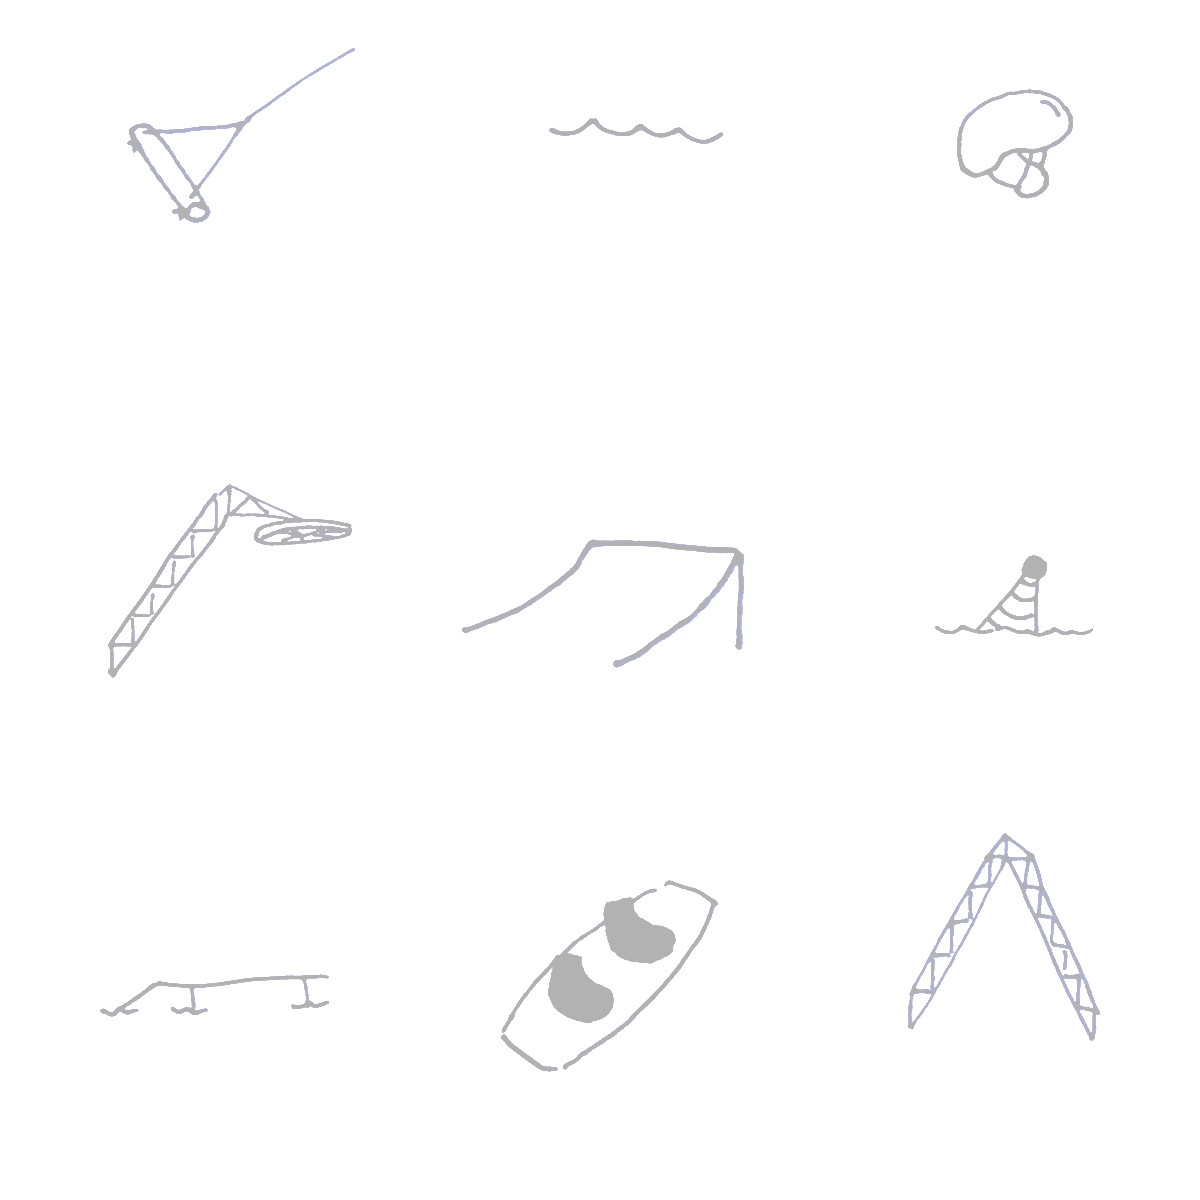
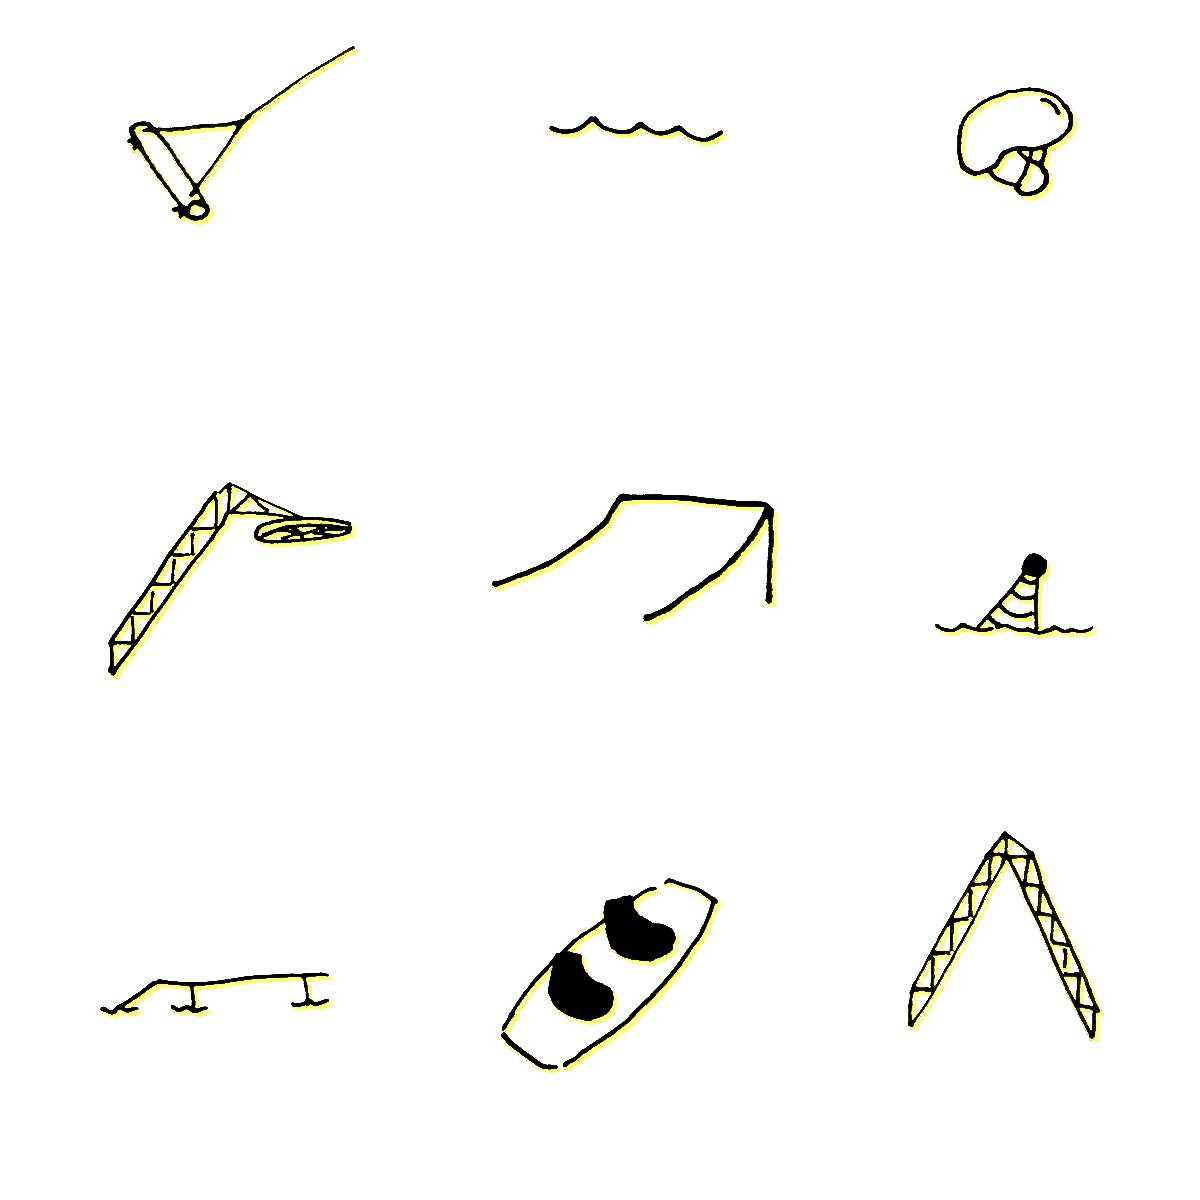
Create first style

diff --git a/html/css/style.css b/html/css/style.css
@@ -1,1 +1,1 @@
-/*! normalize.css v3.0.3 | MIT License | github.com/necolas/normalize.css */html{font-family:sans-serif;-ms-text-size-adjust:100%;-webkit-text-size-adjust:100%}body{margin:0}article,aside,details,figcaption,figure,footer,header,hgroup,main,menu,nav,section,summary{display:block}audio,canvas,progress,video{display:inline-block;vertical-align:baseline}audio:not([controls]){display:none;height:0}[hidden],template{display:none}a{background-color:transparent}a:active,a:hover{outline:0}abbr[title]{border-bottom:1px dotted}b,strong{font-weight:bold}dfn{font-style:italic}h1{font-size:2em;margin:0.67em 0}mark{background:#ff0;color:#000}small{font-size:80%}sub,sup{font-size:75%;line-height:0;position:relative;vertical-align:baseline}sup{top:-0.5em}sub{bottom:-0.25em}img{border:0}svg:not(:root){overflow:hidden}figure{margin:1em 40px}hr{box-sizing:content-box;height:0}pre{overflow:auto}code,kbd,pre,samp{font-family:monospace, monospace;font-size:1em}button,input,optgroup,select,textarea{color:inherit;font:inherit;margin:0}button{overflow:visible}button,select{text-transform:none}button,html input[type="button"],input[type="reset"],input[type="submit"]{-webkit-appearance:button;cursor:pointer}button[disabled],html input[disabled]{cursor:default}button::-moz-focus-inner,input::-moz-focus-inner{border:0;padding:0}input{line-height:normal}input[type="checkbox"],input[type="radio"]{box-sizing:border-box;padding:0}input[type="number"]::-webkit-inner-spin-button,input[type="number"]::-webkit-outer-spin-button{height:auto}input[type="search"]{-webkit-appearance:textfield;box-sizing:content-box}input[type="search"]::-webkit-search-cancel-button,input[type="search"]::-webkit-search-decoration{-webkit-appearance:none}fieldset{border:1px solid #c0c0c0;margin:0 2px;padding:0.35em 0.625em 0.75em}legend{border:0;padding:0}textarea{overflow:auto}optgroup{font-weight:bold}table{border-collapse:collapse;border-spacing:0}td,th{padding:0}body{background:#fff;background-image:url("/media/background.png");background-repeat:repeat;background-size:400px;color:#222;font-family:"malzoo";font-size:24px;font-weight:bold;overflow:scroll}@media screen and (max-width: 480px){body{font-size:20px;background-size:250px}body img{width:120px;height:120px}}a{color:inherit;outline:0;text-decoration:none;transition:.15s;font-weight:normal;font-size:16px}#container{display:flex;flex-direction:column}#map{margin-right:10px}.park{display:flex;flex-direction:row;margin:10px}.info{margin-left:10px}
+/*! normalize.css v3.0.3 | MIT License | github.com/necolas/normalize.css */html{font-family:sans-serif;-ms-text-size-adjust:100%;-webkit-text-size-adjust:100%}body{margin:0}article,aside,details,figcaption,figure,footer,header,hgroup,main,menu,nav,section,summary{display:block}audio,canvas,progress,video{display:inline-block;vertical-align:baseline}audio:not([controls]){display:none;height:0}[hidden],template{display:none}a{background-color:transparent}a:active,a:hover{outline:0}abbr[title]{border-bottom:1px dotted}b,strong{font-weight:bold}dfn{font-style:italic}h1{font-size:2em;margin:0.67em 0}mark{background:#ff0;color:#000}small{font-size:80%}sub,sup{font-size:75%;line-height:0;position:relative;vertical-align:baseline}sup{top:-0.5em}sub{bottom:-0.25em}img{border:0}svg:not(:root){overflow:hidden}figure{margin:1em 40px}hr{box-sizing:content-box;height:0}pre{overflow:auto}code,kbd,pre,samp{font-family:monospace, monospace;font-size:1em}button,input,optgroup,select,textarea{color:inherit;font:inherit;margin:0}button{overflow:visible}button,select{text-transform:none}button,html input[type="button"],input[type="reset"],input[type="submit"]{-webkit-appearance:button;cursor:pointer}button[disabled],html input[disabled]{cursor:default}button::-moz-focus-inner,input::-moz-focus-inner{border:0;padding:0}input{line-height:normal}input[type="checkbox"],input[type="radio"]{box-sizing:border-box;padding:0}input[type="number"]::-webkit-inner-spin-button,input[type="number"]::-webkit-outer-spin-button{height:auto}input[type="search"]{-webkit-appearance:textfield;box-sizing:content-box}input[type="search"]::-webkit-search-cancel-button,input[type="search"]::-webkit-search-decoration{-webkit-appearance:none}fieldset{border:1px solid #c0c0c0;margin:0 2px;padding:0.35em 0.625em 0.75em}legend{border:0;padding:0}textarea{overflow:auto}optgroup{font-weight:bold}table{border-collapse:collapse;border-spacing:0}td,th{padding:0}body{background:#a1fdff;background-image:url("/media/background.png");background-repeat:repeat;background-size:400px;color:#000;text-shadow:4px 4px #fff;font-family:"malzoo";font-size:48px;font-weight:bold;overflow:scroll}@media screen and (max-width: 480px){body{font-size:24px;background-size:250px}body img{width:120px;height:120px}body a{font-size:18px}}a{background:#ff0;color:inherit;outline:0;text-decoration:none;transition:.15s;font-weight:normal;font-size:32px;padding:10px;opacity:0.8}#container{display:flex;flex-direction:column}#map{margin-right:10px}.park{display:flex;flex-direction:row;margin:10px}.info{margin-left:10px}

diff --git a/html/_scss/_main.scss b/html/_scss/_main.scss
@@ -6,28 +6,35 @@ body {
   background-repeat: repeat;
   background-size: 400px;
   color: $color-text;
+  text-shadow: 4px 4px $color-shadow;
   font-family: "malzoo";
-  font-size: 24px;
+  font-size: 48px;
   font-weight: bold;
   overflow: scroll;
 
   @include media-query($phone) {
-    font-size: 20px;
+    font-size: 24px;
     background-size: 250px;
     img {
       width: 120px;
       height: 120px;
       }
+    a {
+      font-size: 18px;
+    }
   }
 }
 
 a {
+    background: $color-highlight;
     color: inherit;
     outline: 0;
     text-decoration: none;
     transition: .15s;
     font-weight: normal;
-    font-size: 16px;
+    font-size: 32px;
+    padding: 10px;
+    opacity: 0.8;
 }
 
 #container {

diff --git a/html/_scss/style.scss b/html/_scss/style.scss
@@ -1,6 +1,8 @@
 // Variables
-$color-background: #fff;
-$color-text: #222;
+$color-background: #a1fdff;
+$color-text: #000;
+$color-shadow: #fff;
+$color-highlight: #ff0;
 
 $phone: 480px;
 $tablet: 768px;
